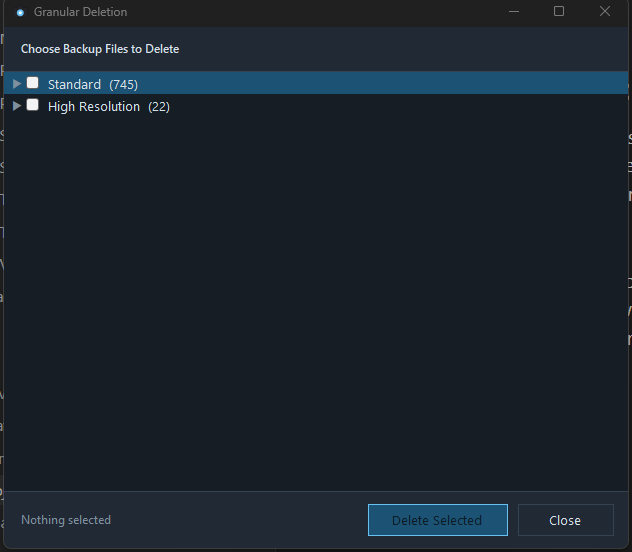
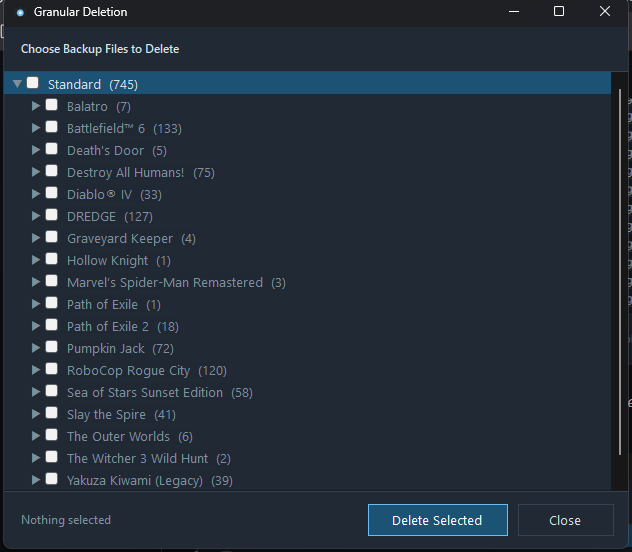
v3.7.4: fix Delete Selected button's disabled-state text color
WinForms renders a FlatStyle button's text with a fixed system disabled
color whenever Enabled is false, ignoring the button's own ForeColor --
so "Delete Selected" showed dark, hard-to-read text on its blue background
whenever nothing was checked, unlike "Backup Now" (always enabled) elsewhere
in the app. DeleteSelected() already no-ops when nothing is selected, so the
button no longer needs Enabled toggled at all; it now stays enabled and
always renders with the correct white-on-accent styling.

Also regenerated docs/img/targeted-delete.png: the previous version showed
the tree fully collapsed with almost nothing visible. It now shows the
Standard type expanded with real game rows, so the screenshot actually
demonstrates what the window looks like in use.

diff --git a/app/TargetedDeleteWindow.cs b/app/TargetedDeleteWindow.cs
@@ -88,8 +88,7 @@ namespace SteamScreenshotBackup
             {
                 Text = "Delete Selected",
                 Size = new Size(140, 32),
-                Anchor = AnchorStyles.Top | AnchorStyles.Right,
-                Enabled = false
+                Anchor = AnchorStyles.Top | AnchorStyles.Right
             };
             _deleteBtn.Location = new Point(bottom.Width - close.Width - 14 - _deleteBtn.Width - 10, 12);
             Theme.StyleButton(_deleteBtn, primary: true);
@@ -243,7 +242,6 @@ namespace SteamScreenshotBackup
                 ? "Nothing selected"
                 : $"{folders} folder{(folders == 1 ? "" : "s")}, " +
                   $"{files.Count} file{(files.Count == 1 ? "" : "s")} selected  \u00B7  {MainWindow.FormatBytes(bytes)}";
-            _deleteBtn.Enabled = files.Count > 0;
         }
 
         // A "folder" (per-game node) counts as selected only when every file under it